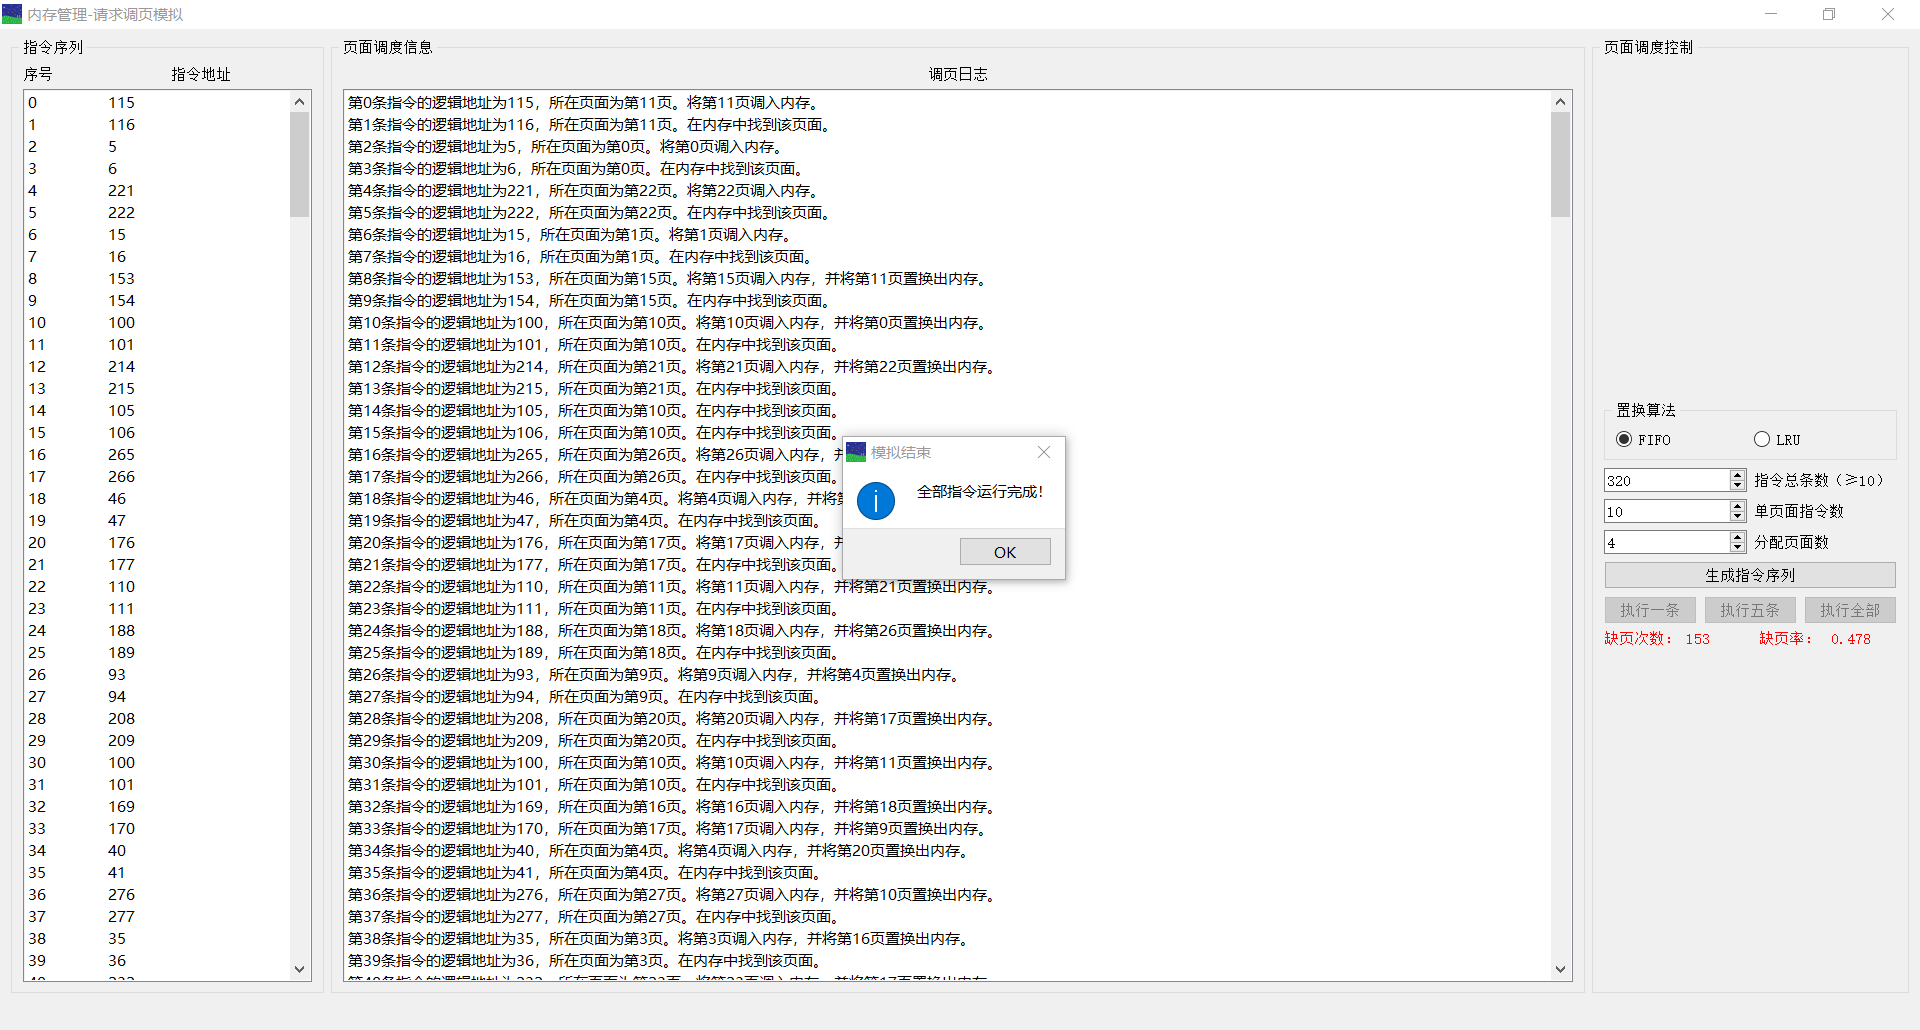
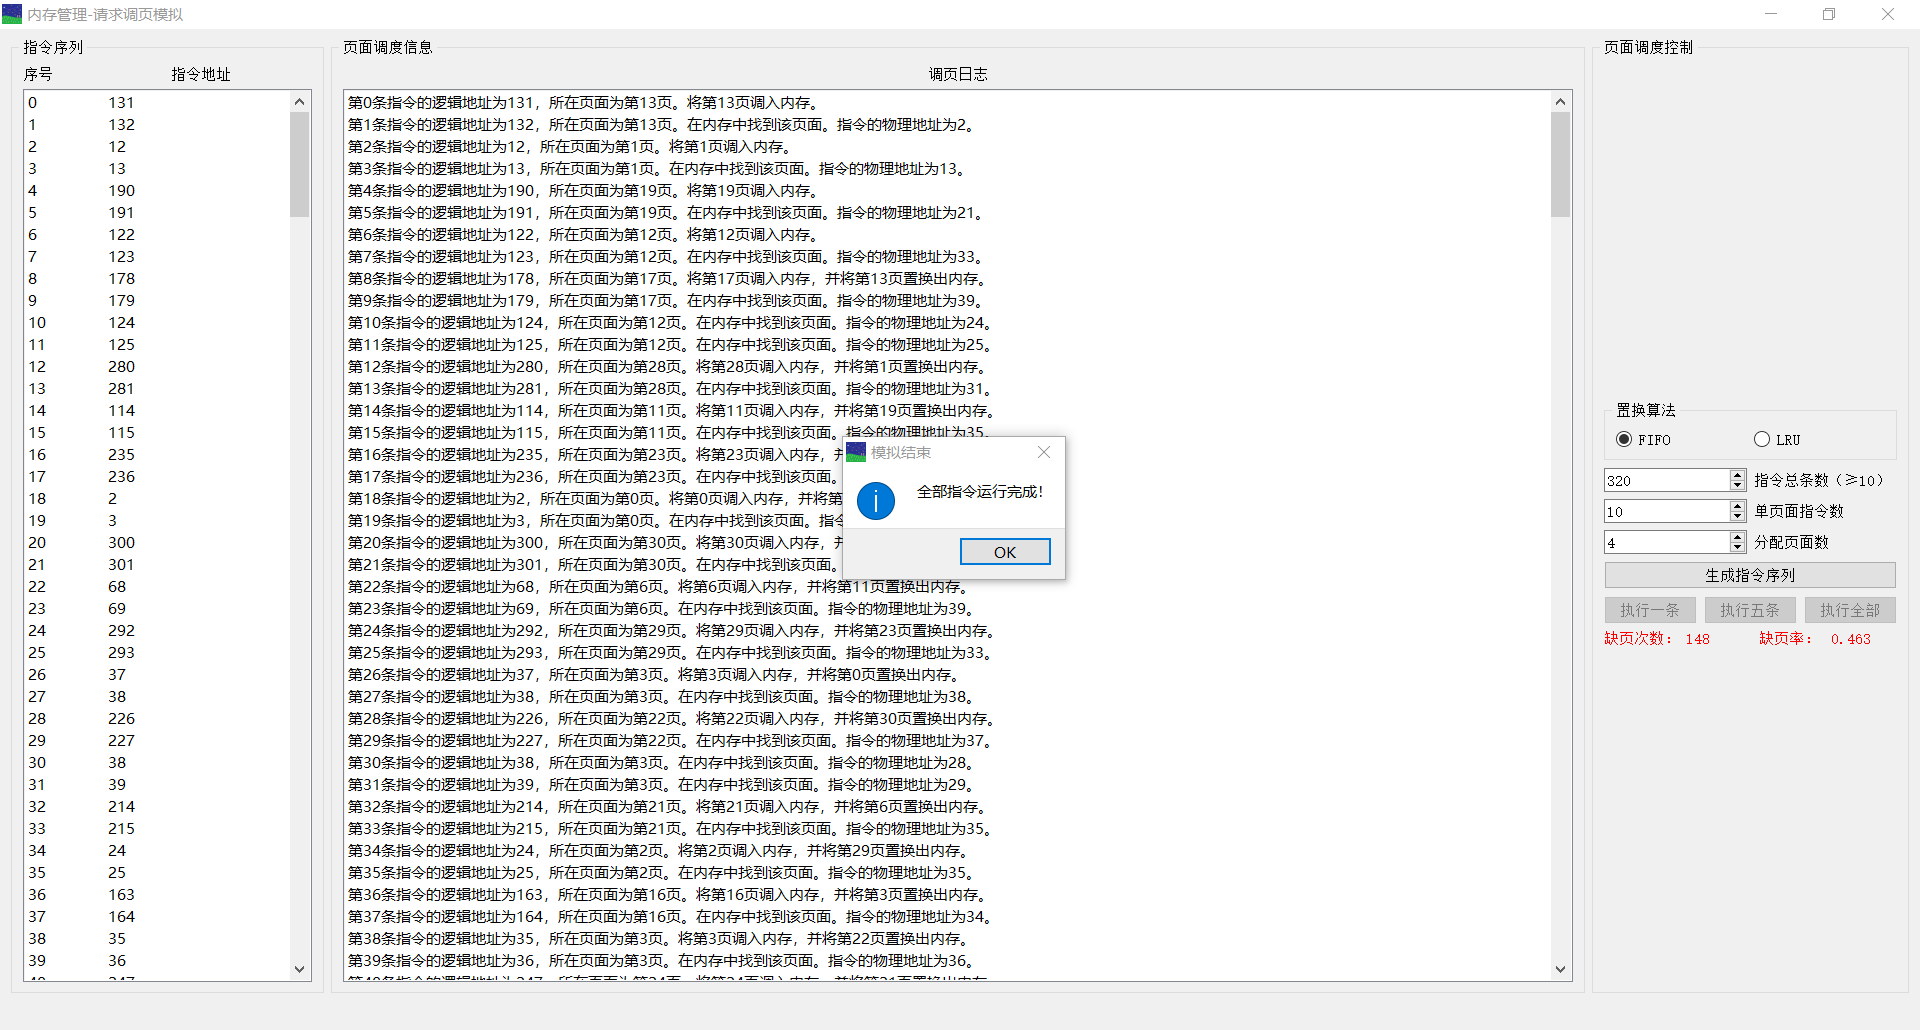
Add Physical Address

diff --git a/Project_2_Memory_Management/main.py b/Project_2_Memory_Management/main.py
@@ -34,6 +34,7 @@ class MyWindow(QMainWindow, memory_management.Ui_MainWindow):
         self.TotalCommandValue = 0
         self.ScheduleMethod = ""
         self.MemoryAllocation = []
+        self.TrueMemory = []
         self.CurrentPointer = 0
         self.FailureTimes = 0
         self.PageLackCounter.setStyleSheet("QLabel{color: green;}")
@@ -86,6 +87,7 @@ class MyWindow(QMainWindow, memory_management.Ui_MainWindow):
         "，所在页面为第" + str(page) + "页。"
         if page in self.MemoryAllocation:
             item += "在内存中找到该页面。"
+            item += "指令的物理地址为" + str(self.TrueMemory.index(page) * self.PageCommandValue + self.MyCommandList[self.CurrentPointer] % self.PageCommandValue) + "。"
             # 通过列表中页面排序来实现LRU，FIFO是自动的，无需额外代码
             if self.ScheduleMethod == "LRU":
                 self.MemoryAllocation.remove(page)
@@ -95,11 +97,14 @@ class MyWindow(QMainWindow, memory_management.Ui_MainWindow):
             item += "将第" + str(page) + "页调入内存"
             if len(self.MemoryAllocation) < self.TotalPageValue:
                 self.MemoryAllocation.append(page)
+                self.TrueMemory.append(page)
                 item += "。"
             else:
                 item += "，并将第" + str(self.MemoryAllocation[0]) + "页置换出内存。"
+                self.TrueMemory.remove(self.MemoryAllocation[0])
                 del(self.MemoryAllocation[0])
                 self.MemoryAllocation.append(page)
+                self.TrueMemory.append(page)
         self.PageLackCounter.setText(str(self.FailureTimes))
         self.PageLackRadio.setText(str(round(self.FailureTimes / (self.CurrentPointer + 1), 3)))
         if self.FailureTimes > 0:
@@ -138,6 +143,7 @@ class MyWindow(QMainWindow, memory_management.Ui_MainWindow):
         self.CommandLog.clear()
         self.MyCommandList = []
         self.MemoryAllocation = []
+        self.TrueMemory = []
         self.CurrentPointer = 0
         self.FailureTimes = 0
         if self.FIFOButton.isChecked():
